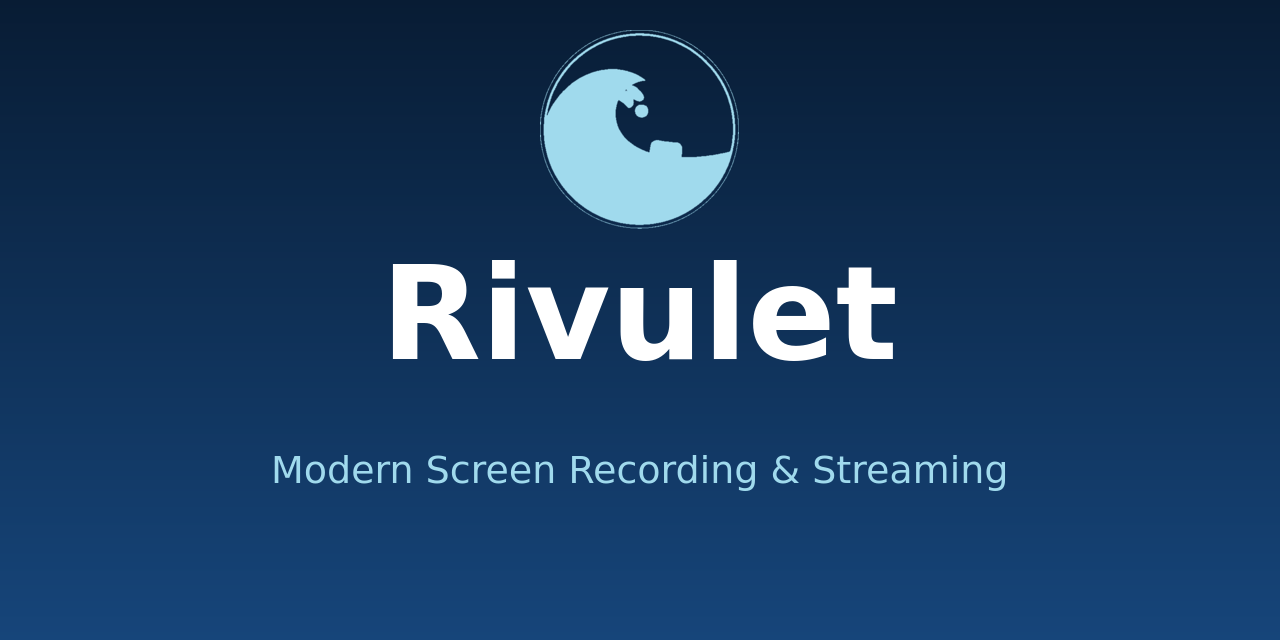
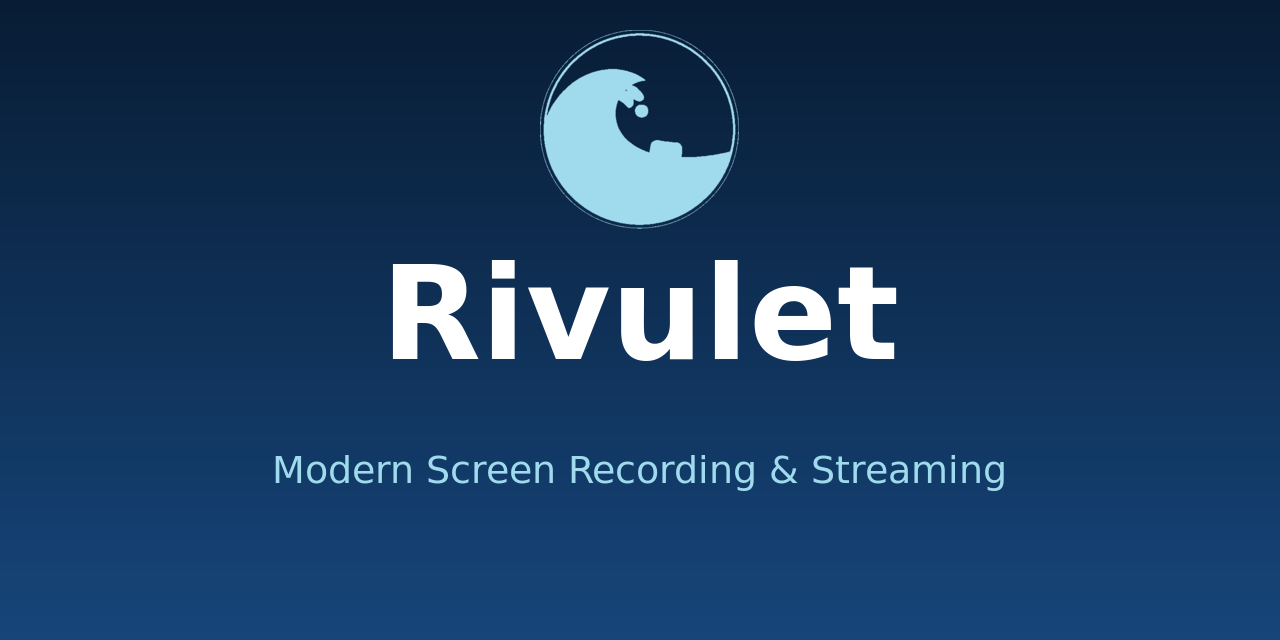
ci(assets): pin asset generation to a fixed ImageMagick image
Text rasterization differs between FreeType versions, so the drift check
previously compared assets generated on the runner's own ImageMagick
against files generated elsewhere. Run generation and comparison inside
the pinned dpokidov/imagemagick:7.1.2-12 image instead, and regenerate
the committed text assets with that exact image so CI is byte-stable
regardless of runner updates.

🤖 Generated with Codebuff

diff --git a/rivulet-core/tests/assets.rs b/rivulet-core/tests/assets.rs
@@ -216,11 +216,18 @@ fn asset_drift_check_is_wired_up() {
         checker.contains("git show") && checker.contains("RGBA"),
         "check-assets.py must compare decoded pixels against HEAD"
     );
-
     let ci = read(".github/workflows/ci.yml");
     assert!(
         ci.contains("scripts/generate-assets.sh") && ci.contains("scripts/check-assets.py"),
         "CI must regenerate assets and check them against the committed files"
+    );
+    assert!(
+        ci.contains("dpokidov/imagemagick:7.1.2-12"),
+        "the asset check must run in a pinned ImageMagick image"
+    );
+    assert!(
+        ci.contains("safe.directory"),
+        "the pinned container must mark the mounted repo as a safe git directory"
     );
 
     let generator = read("scripts/generate-assets.sh");

diff --git a/README.md b/README.md
@@ -397,16 +397,17 @@ The README thumbnail (`docs/thumbnail.png`), the GitHub social preview
 (`docs/social-preview.png`), the OpenGraph fallback (`docs/opengraph.png`), the
 Linux AppImage icon (`packaging/rivulet.png`) and the macOS app icon
 (`packaging/rivulet.icns`) are generated from the logo by
-`scripts/generate-assets.sh` (requires ImageMagick and Python 3). The text uses
-the committed DejaVu Sans fonts and the resize filter is pinned, so re-running
-the script reproduces the committed files pixel-for-pixel on any platform, and
-any branding change is a single command:
+`scripts/generate-assets.sh` (requires ImageMagick and Python 3). Text uses the
+committed DejaVu Sans fonts and the resize filter is pinned; because text
+rasterization depends on the FreeType version, the canonical output is produced
+with a pinned ImageMagick (`dpokidov/imagemagick:7.1.2-12`):
 
 ```bash
-scripts/generate-assets.sh
+docker run --rm -v "$PWD:/work" -w /work dpokidov/imagemagick:7.1.2-12 \
+  bash -c 'apt-get update -qq && apt-get install -y -qq python3 >/dev/null 2>&1 && bash scripts/generate-assets.sh'
 ```
 
-CI regenerates the assets and fails if they drift from the committed files
+CI runs the same pinned image and fails if the committed assets drift
 (`scripts/check-assets.py`), so logo or generator changes must be committed
 together with the regenerated output.
 
